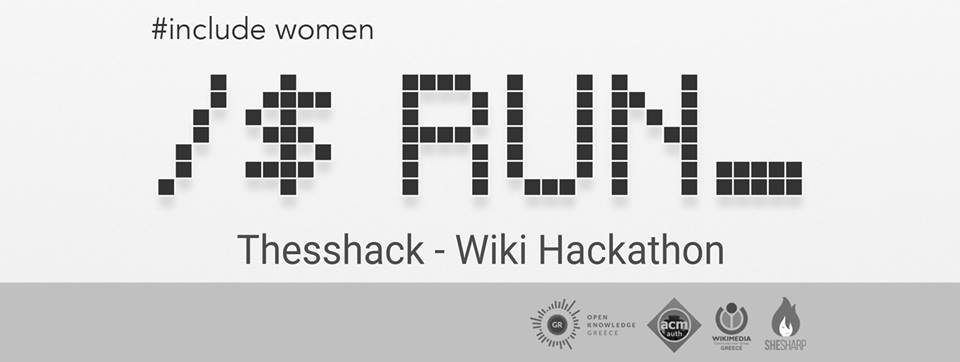
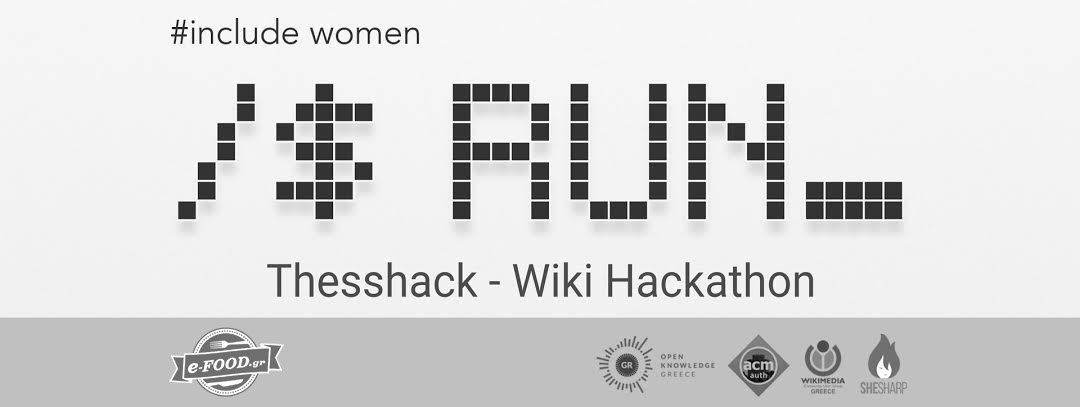
Update thesshack-wiki-hackathon with food info

Changed region(s): [[0.1562, 0.7901, 0.2812, 0.9724]]

diff --git a/_posts/2016-10-15-thesshack-wiki-hackathon.md b/_posts/2016-10-15-thesshack-wiki-hackathon.md
@@ -19,6 +19,11 @@ Just bring your laptop and your good mood and we promise a great event, full of 
 
 Wikimedia Österreich offers 2 full scholarships to attend Wikimedia Hackathon 2017 in Vienna (May 19-21) to the participants.
 
+Catering is sponsored by E-Food.gr
+
+* Registration [form](https://docs.google.com/forms/d/e/1FAIpQLScndvfWK2sggLG7jYiVjhHXM2tQjjszYBQuB-M_2Sfvf_xx2g/viewform)
+* Facebook [event](https://www.facebook.com/events/333420780326262/)
+
 ## Venue
 
 ```
@@ -43,6 +48,5 @@ KEDEA AUTh
 18:30 – 19:00 Closing Ceremony – Awards
 19:00 - 03:00 After party
 ```
-Facebook [event](https://www.facebook.com/events/333420780326262/)
 
 <p><a href="../assets/thesshack-wiki-hackathon/poster.png"><img class="center" alt="thesshack-wiki-hackathon-poster" height="1024" width="724" src="../assets/thesshack-wiki-hackathon/poster.png"/></a></p>
